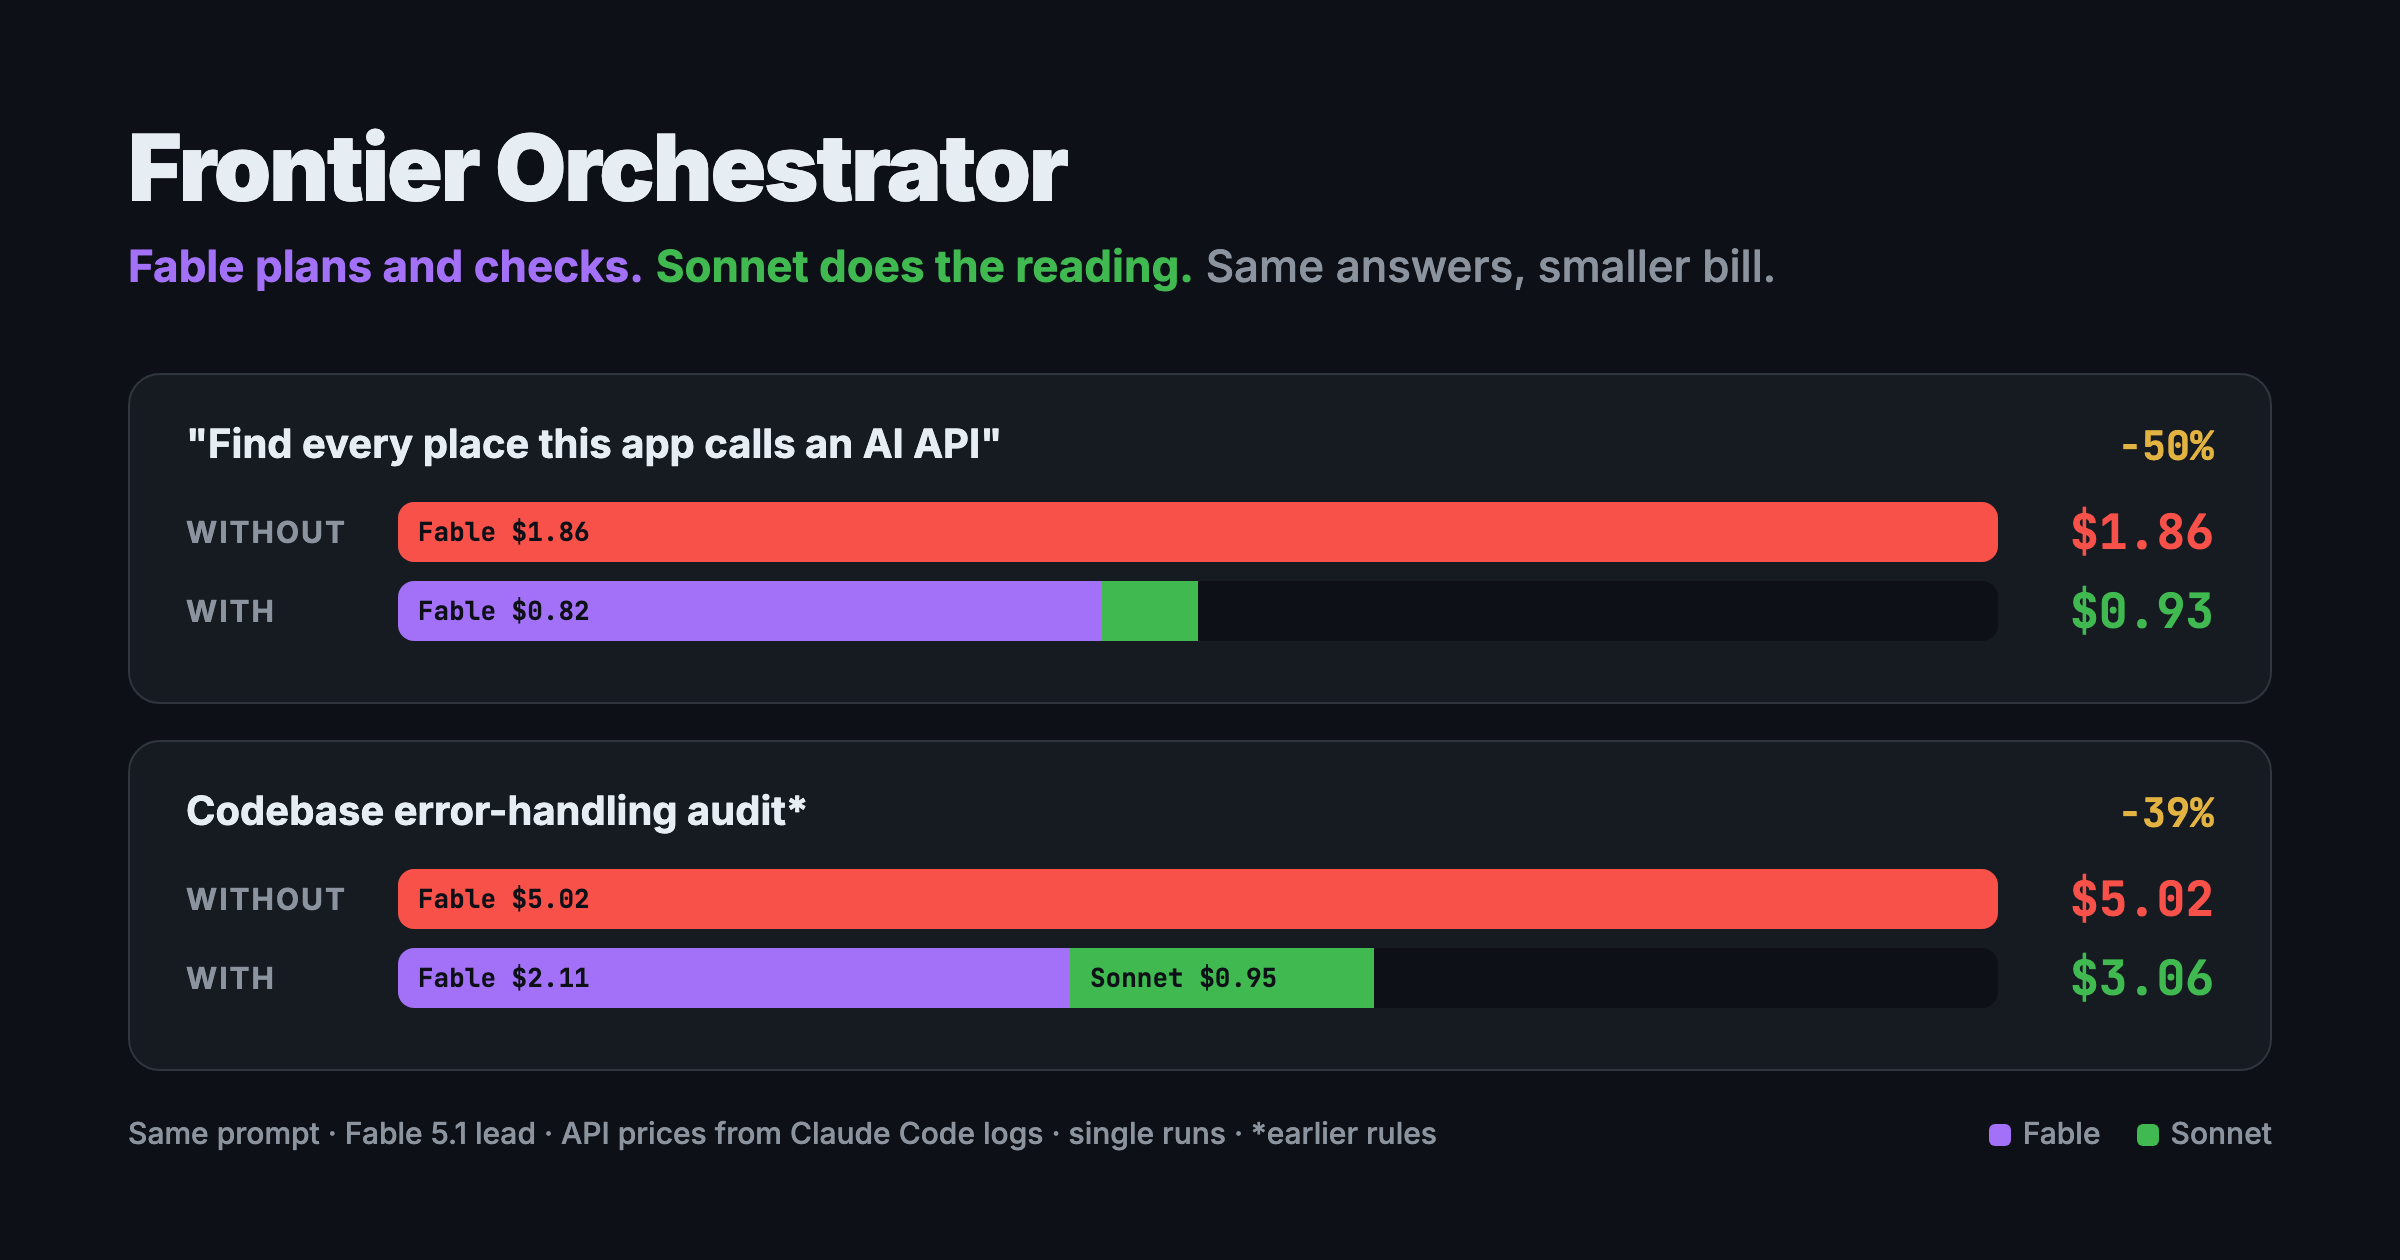
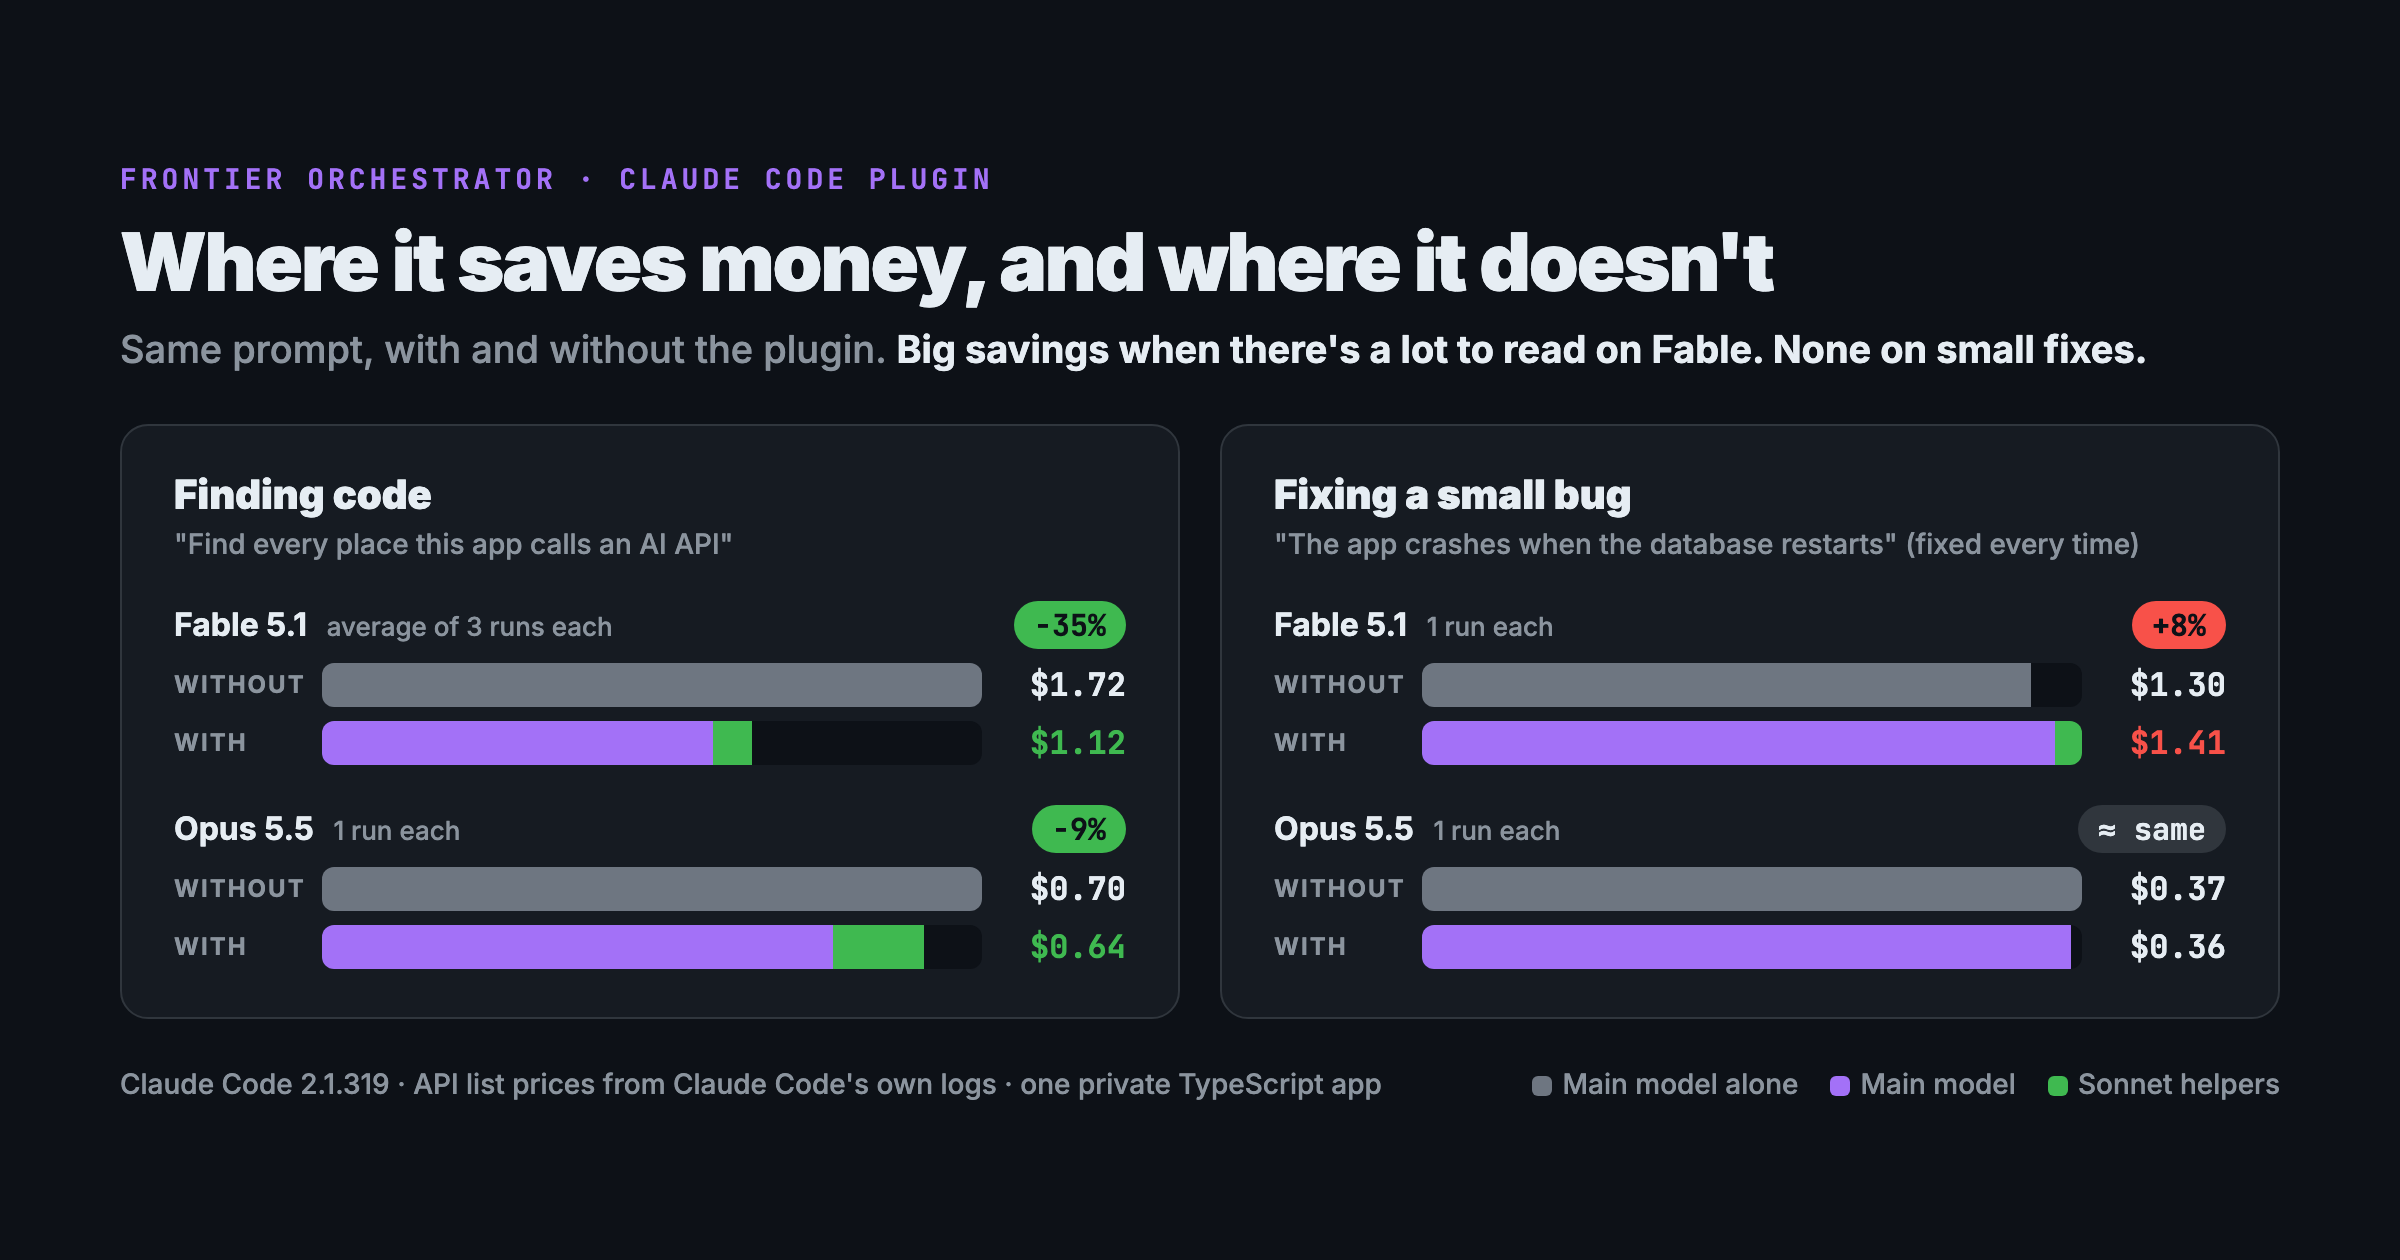
Honest results for Fable and Opus, finding code and fixing a bug
The hero image and README now show all four results, including the two
where the plugin doesn't save money. Adds 10 runs to the proof file.

diff --git a/plugins/frontier-orchestrator/README.md b/plugins/frontier-orchestrator/README.md
@@ -3,13 +3,13 @@
 # Frontier Orchestrator
 
 **Your expensive model leads. Cheaper Sonnet helpers do the reading.**<br>
-Same answers from Claude Code, for about half the bill.
+About a third cheaper on Fable when there's a lot of code to read. Honest results below, including where it doesn't help.
 
 ![MIT license](https://img.shields.io/badge/license-MIT-blue)
 ![Claude Code 2.1.251+](https://img.shields.io/badge/Claude%20Code-2.1.251%2B-orange)
-![Tested on Fable 5.1](https://img.shields.io/badge/tested%20on-Fable%205.1-a371f7)
+![Tested on Fable 5.1 and Opus 5.5](https://img.shields.io/badge/tested%20on-Fable%205.1%20%7C%20Opus%205.5-a371f7)
 
-<img src="assets/hero.png" alt="Same prompt run twice on Fable 5.1: $1.86 without the plugin, $0.93 with it" width="900">
+<img src="assets/hero.png" alt="Finding code: Fable $1.72 to $1.12, Opus $0.70 to $0.64. Fixing a small bug: Fable $1.30 to $1.41, Opus $0.37 to $0.36." width="900">
 
 </div>
 
@@ -44,20 +44,27 @@ The expensive model still plans, makes the decisions and reviews every result. I
 
 ## Proof
 
-Each test ran the same prompt on the same private TypeScript app, with Fable 5.1 as the main model. The prompts never mentioned helpers. The costs are what Claude Code itself reports, at Claude API list prices.
+Each test ran the same prompt on the same private TypeScript app, with and without the plugin. The prompts never mentioned helpers. The costs are what Claude Code itself reports, at Claude API list prices.
 
-- **"Find every place this app calls an AI API"**
-  - Without the plugin: **$1.86**. Fable did all the reading itself.
-  - With the plugin: **$0.93**. Fable sent one Sonnet scout on its own.
-  - Both answers named 16 of the same files, and the plugin run found 3 more.
-- **Codebase error-handling audit** (earlier version of the rules)
-  - Without: **$5.02** in 4 min 34 s.
-  - With: **$3.06** in 51 s, with comparable findings.
-- **An honest miss.** The plugin's first draft used softer wording, and Fable ignored it: $1.95, no helpers. That's why the current rules start with one firm rule: send a scout first.
+**Finding code** (*"Find every place this app calls an AI API"*)
+- **Fable 5.1:** $1.72 → **$1.12, 35% cheaper**, averaged over 3 runs each. Single runs ranged from 10% to 50% cheaper. In the first pair, both answers named 16 of the same files, and the plugin run found 3 more.
+- **Opus 5.5:** $0.70 → **$0.64, 9% cheaper**, one run each.
 
-The raw cost figures for every run are in [`proof/runs.json`](../../proof/runs.json).
+**Fixing a small bug** (*"The app crashes when the database restarts"*, fixed correctly every time)
+- **Fable 5.1:** $1.30 → **$1.41, 8% more expensive**, one run each. The fix touched one file, so sending a helper cost more than it saved.
+- **Opus 5.5:** $0.37 → **$0.36, about the same**, one run each.
 
-**How measured:** each run was a fresh `claude -p` session on Claude Code 2.1.319. The other rules on the machine were switched off, so only the plugin differed. These are single runs, so treat the numbers as examples, not guarantees.
+**Reviewing code for bugs** (an error-handling audit, with an earlier version of the rules on Fable)
+- $5.02 → **$3.06, 39% cheaper**, and done in 51 seconds instead of 4.5 minutes, with comparable findings.
+
+**What this means**
+- **The bigger the reading job, the bigger the saving.** Exploring a codebase, audits and large features save the most. Small, targeted fixes don't.
+- **Fable saves far more than Opus.** Fable costs about 5 times as much as Sonnet, so every file Sonnet reads instead saves a lot. Opus costs only about twice as much as Sonnet.
+- **An honest miss along the way.** The plugin's first draft used softer wording, and Fable ignored it ($1.95, no helpers). That's why the rules now start with one firm rule: send a scout first.
+
+The cost figures for all 15 runs are in [`proof/runs.json`](../../proof/runs.json).
+
+**How measured:** each run was a fresh `claude -p` session on Claude Code 2.1.319, capped at $3. Other rules on the machine were switched off and helpers used Claude Code's defaults, so only the plugin differed. Bug fixes ran in throwaway copies of the code. Most results are single runs, so treat them as examples, not guarantees.
 
 ## Optional: lock every helper onto Sonnet
 
@@ -71,11 +78,11 @@ A plugin can't change your settings, so these two steps are manual. They make he
 
 ## Good to know
 
-- **Savings depend on the work.** Reading-heavy jobs save the most. For a tiny one-file fix, the rules tell the model to skip helpers.
+- **Savings depend on the work.** Reading-heavy jobs save the most. Small one-file fixes can cost slightly more.
 - **Cheaper in dollars, not always in tokens.** A run with helpers can use more tokens in total, because most of them are Sonnet tokens at about a fifth of the price.
 - **Other providers differ.** On Amazon Bedrock, Google Cloud or Microsoft Foundry, Claude Code's defaults differ, and so will your savings.
 - **Company settings win.** Organization-managed settings and model allowlists override this plugin.
-- **Tested so far on one machine** with Fable 5.1. Results from Opus or other setups are welcome as issues.
+- **Tested so far on one machine,** with Fable 5.1 and Opus 5.5. Results from other setups are welcome as issues.
 
 ## How it works
 

diff --git a/README.md b/README.md
@@ -7,7 +7,7 @@ Plugins and skills I use every day in Claude Code, shared with proof of what the
 ![MIT license](https://img.shields.io/badge/license-MIT-blue)
 ![Claude Code plugins](https://img.shields.io/badge/Claude%20Code-plugins-orange)
 
-<img src="plugins/frontier-orchestrator/assets/hero.png" alt="Frontier Orchestrator: same prompt, $1.86 without, $0.93 with" width="860">
+<img src="plugins/frontier-orchestrator/assets/hero.png" alt="Frontier Orchestrator test results for Fable and Opus, finding code and fixing a small bug" width="860">
 
 </div>
 
@@ -25,7 +25,7 @@ Then install whichever skills you want, and start a new session.
 
 | Skill | What it does | Install |
 | :- | :- | :- |
-| [**Frontier Orchestrator**](plugins/frontier-orchestrator) | Fable or Opus leads, and cheaper Sonnet helpers do the searching, reading and routine edits. About half the bill in testing. | `/plugin install frontier-orchestrator@awal-skills` |
+| [**Frontier Orchestrator**](plugins/frontier-orchestrator) | Fable or Opus leads, and cheaper Sonnet helpers do the searching, reading and routine edits. About 35% cheaper on Fable for reading-heavy work in testing. | `/plugin install frontier-orchestrator@awal-skills` |
 
 More coming soon.
 
